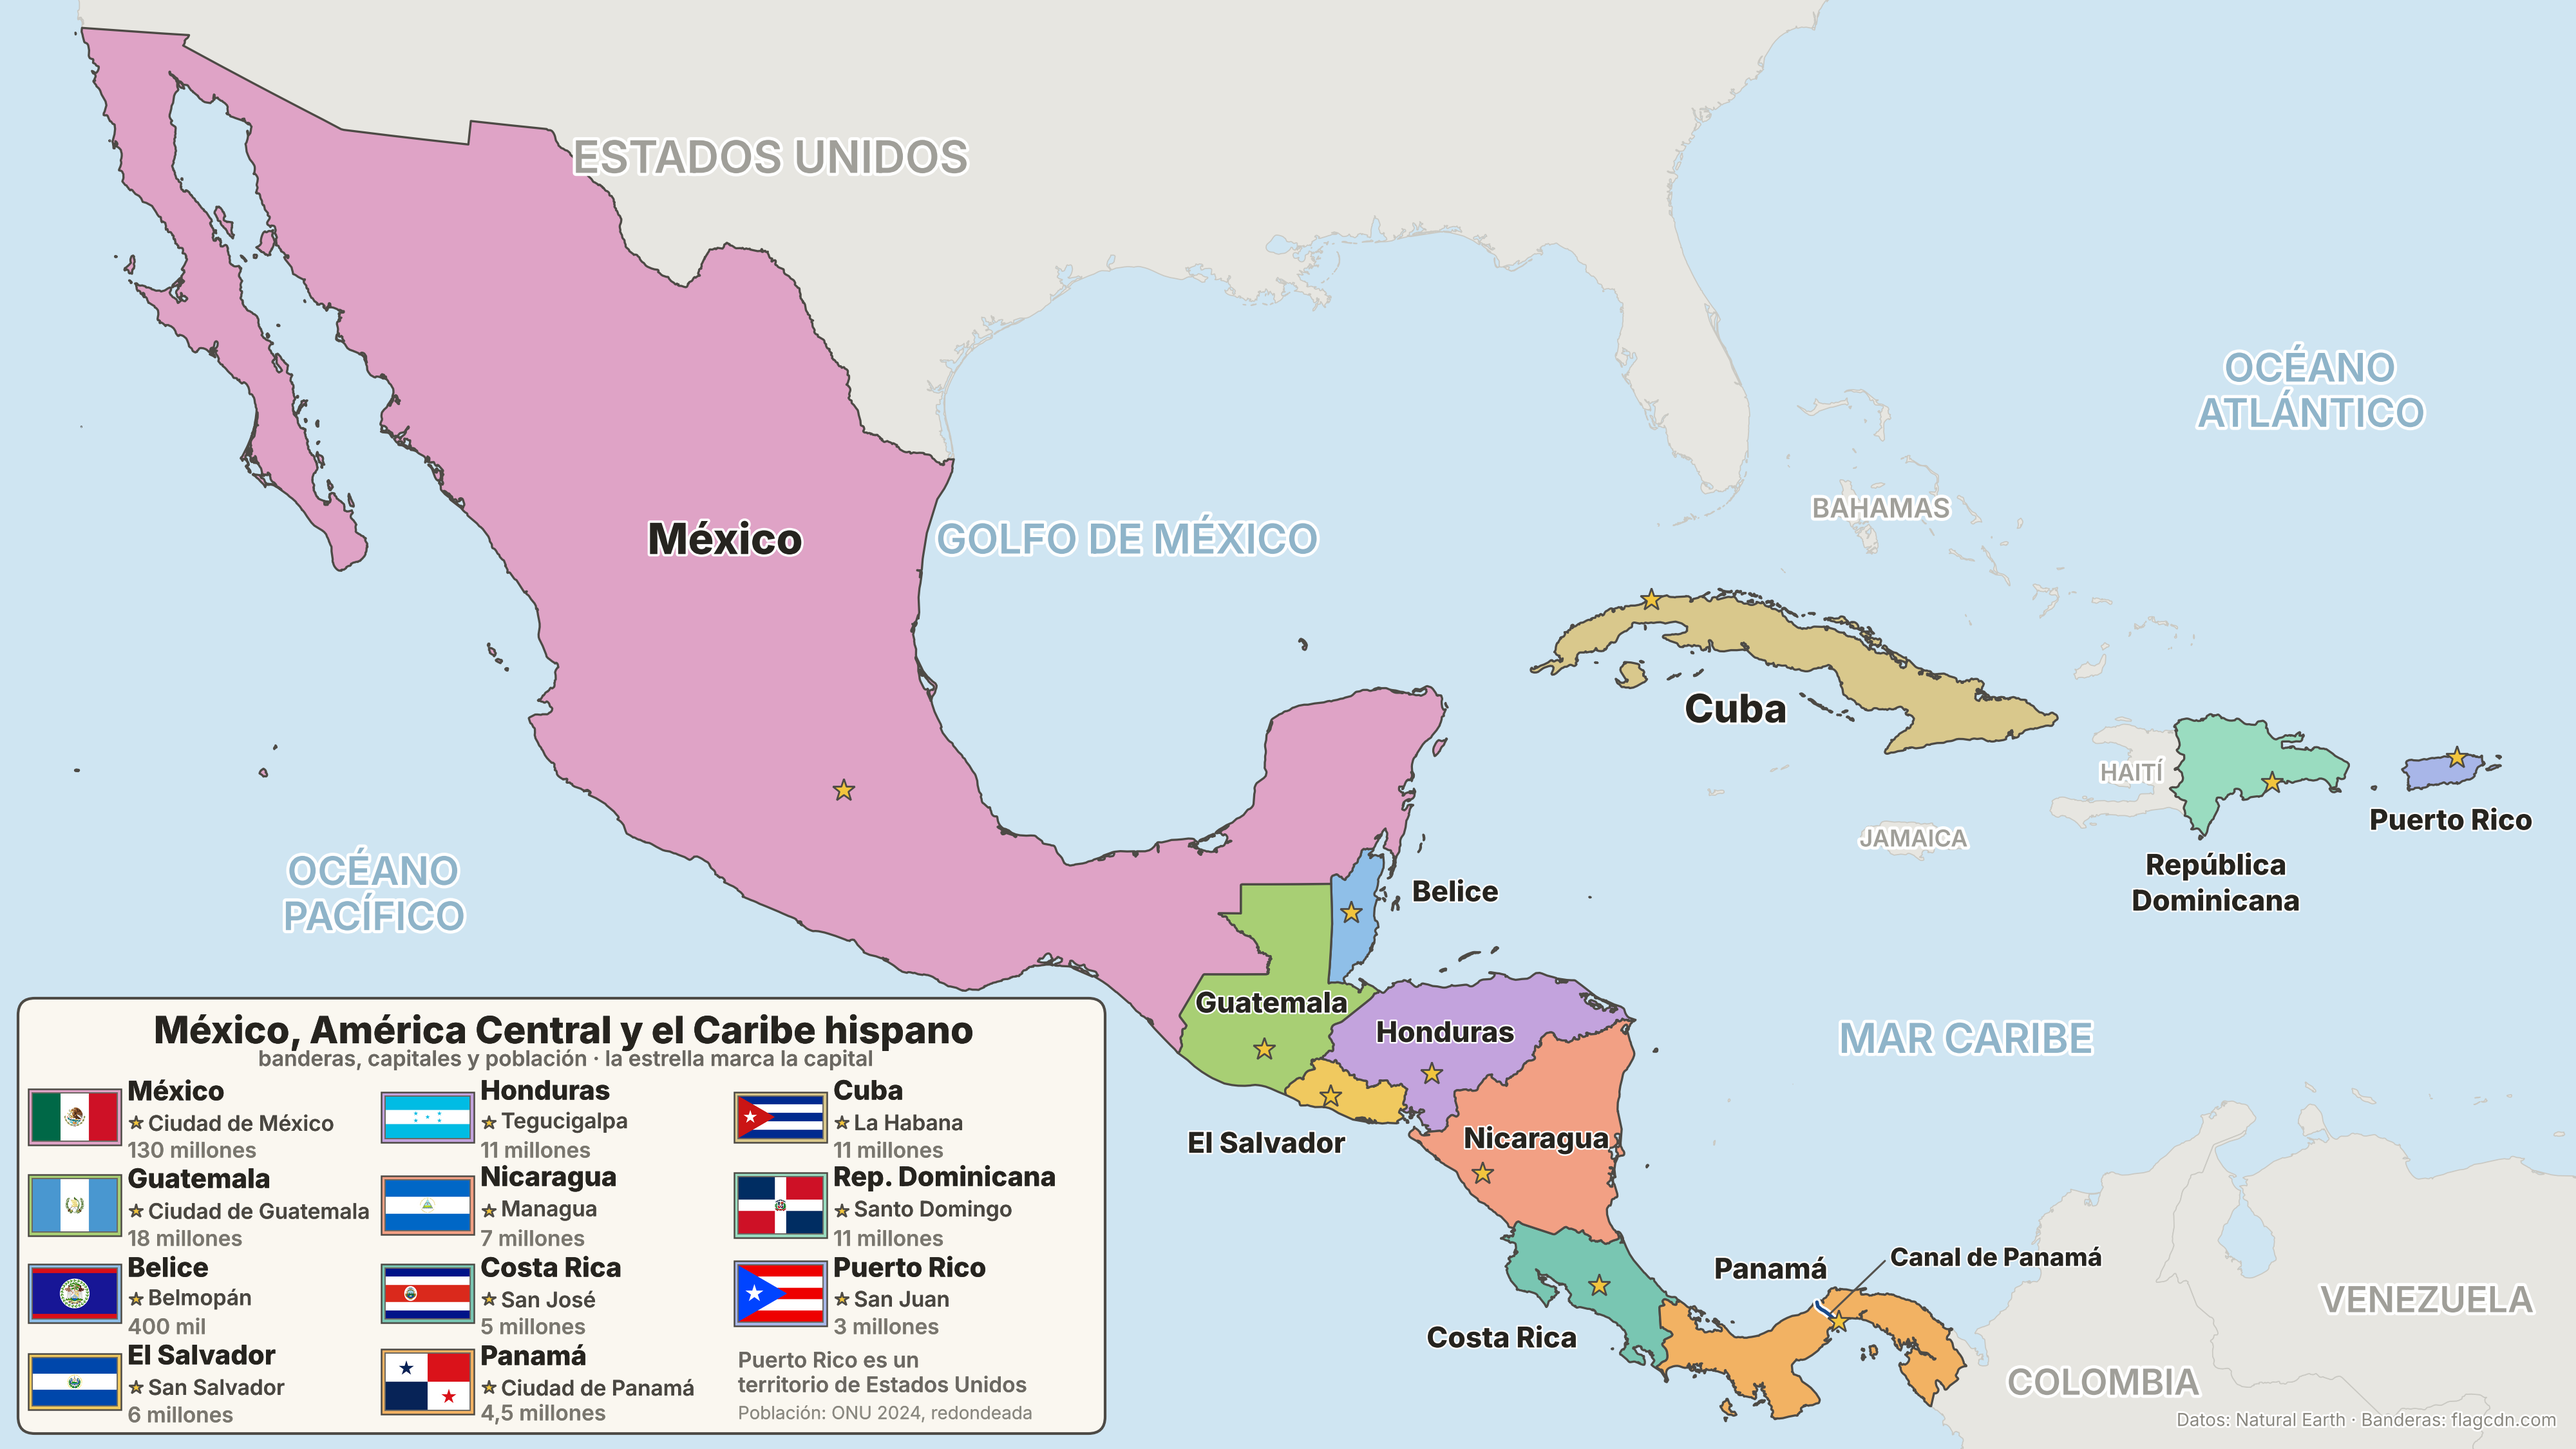
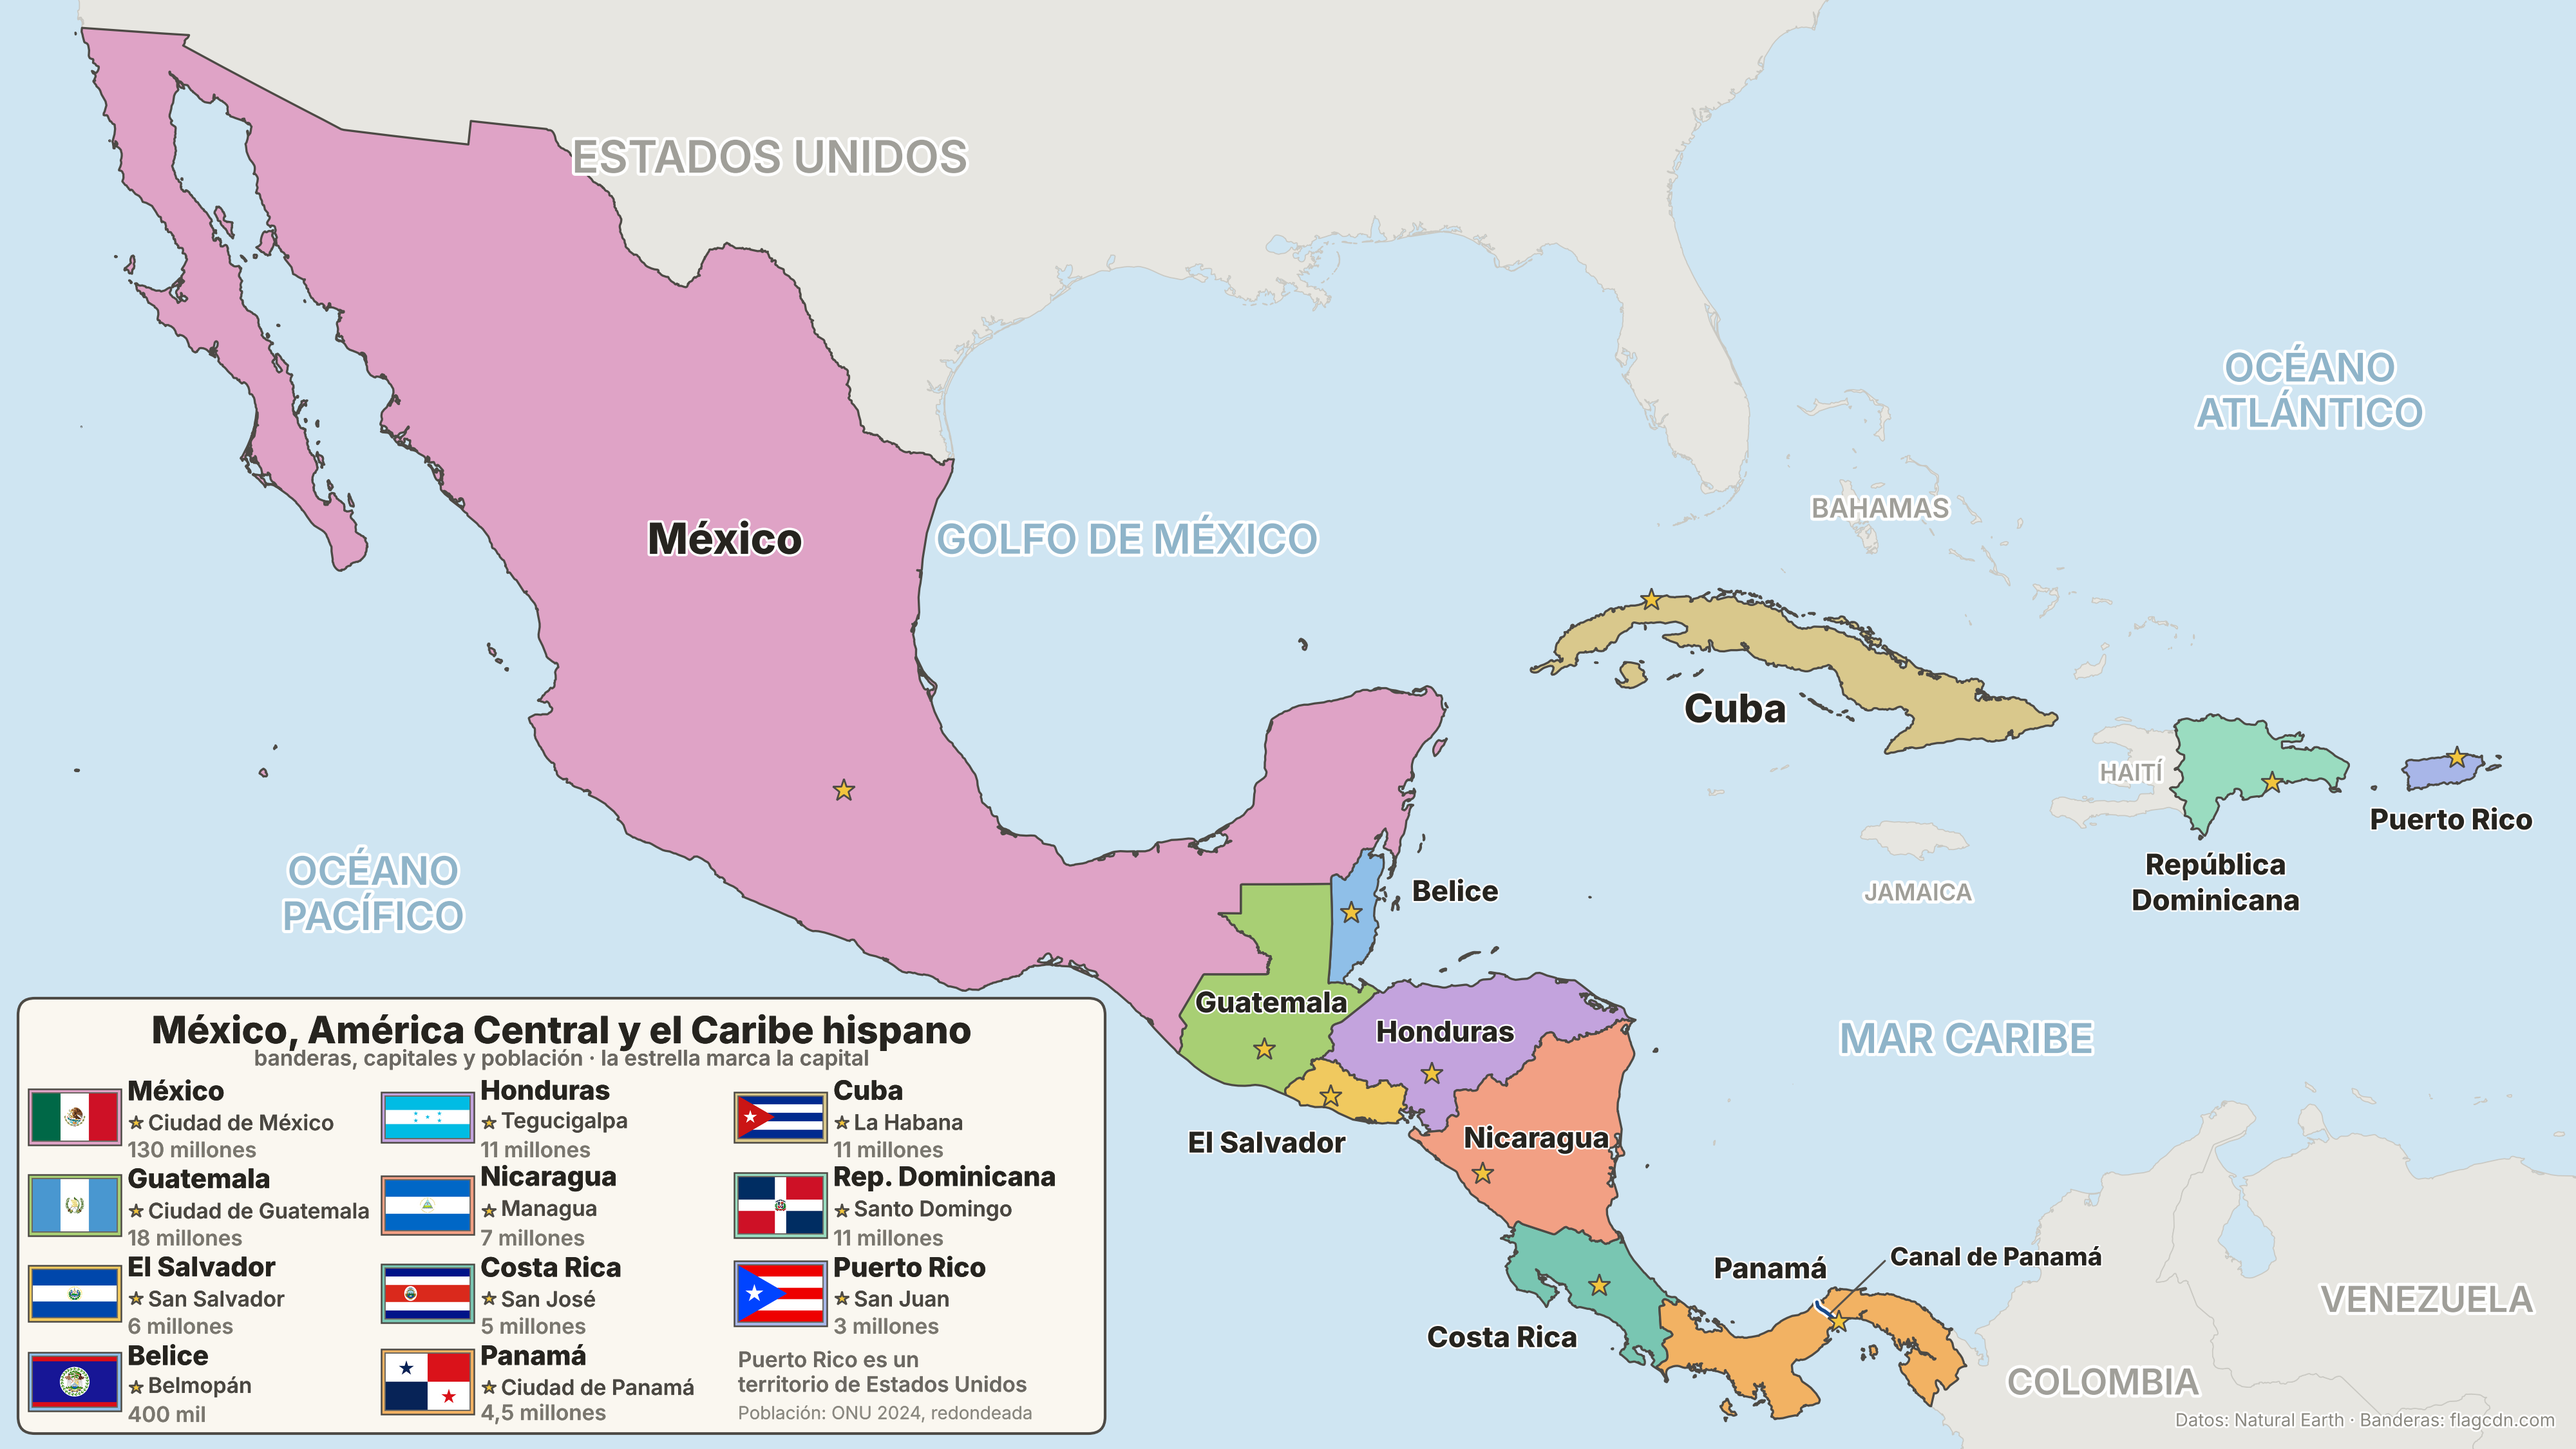
Add Miño, Nalón, Navia, Sella to rios-ciudades; reorder Belice/El Salvador and move Jamaica label on Mexico map
Claude-Session: https://claude.ai/code/session_017HntA7aw6av6jaruFWAru6

diff --git a/tvmaps/maps_rios.py b/tvmaps/maps_rios.py
@@ -11,6 +11,7 @@ Natural Earth mislabelings were corrected).
 from dataclasses import dataclass
 
 import geopandas as gpd
+import pandas as pd
 
 from . import cities, draw, geo, hooks
 from .maps_fisica import (COAST, HAND_RANGES, LAND, LAND_EDGE, RANGE_ALPHA,
@@ -189,6 +190,9 @@ def render_spain_rios():
 # pairing would look wrong and is left out.)
 # Label positions retuned so the names keep clear of the city dots.
 CIUDADES_RIVER_LABELS = {
+    "Nalón": RiverSpec(-5.45, 43.2, -35, 27),
+    "Navia": RiverSpec(-6.75, 43.25, 70, 27),
+    "Sella": RiverSpec(-4.82, 43.28, -78, 27),
     "Duero": RiverSpec(-4.05, 41.42, -6),
     "Pisuerga": RiverSpec(-4.48, 42.45, -80, 27, main=False),
     "Tormes": RiverSpec(-5.45, 40.55, -35, 27, main=False),
@@ -229,6 +233,13 @@ HAND_RIVERS = {
                    (1.9, 41.55), (1.93, 41.47), (2.03, 41.38), (2.11, 41.32),
                    (2.138, 41.298)],
                   RiverSpec(1.66, 41.68, -70, 27)),
+    # source Meira → Lugo → Portomarín → Ourense → Ribadavia → Tui → A Guarda
+    # (NE's Miño runs ~30 km west of Ourense, so it is traced by hand).
+    "Miño": ([(-7.30, 43.20), (-7.45, 43.10), (-7.55, 43.00), (-7.58, 42.90),
+              (-7.62, 42.81), (-7.70, 42.60), (-7.72, 42.45), (-7.864, 42.337),
+              (-8.14, 42.29), (-8.30, 42.18), (-8.52, 42.08), (-8.64, 42.05),
+              (-8.80, 41.97), (-8.87, 41.90)],
+             RiverSpec(-7.87, 42.75, -65, 26)),
     # Congost headwater → Granollers → Montcada → mouth NE of Barcelona, so
     # the city sits between its two rivers.
     "Besòs": ([(2.38, 41.77), (2.32, 41.68), (2.29, 41.61), (2.23, 41.52),
@@ -236,11 +247,15 @@ HAND_RIVERS = {
               RiverSpec(2.45, 41.62, -58, 25)),
 }
 
-# Cities missing from data/processed/cities.geojson (the two Portuguese
-# river mouths the user wants on the map), hardcoded lon/lat.
+# Cities missing from (or misplaced in) data/processed/cities.geojson: the
+# two Portuguese river mouths the user wants on the map, plus Ourense.
+# Hardcoded lon/lat.
 EXTRA_CITIES = {
     "Lisboa": (-9.1393, 38.7223),
     "Oporto": (-8.6291, 41.1579),
+    # The gazetteer geocoded Ourense ~35 km east of the city (-7.54, 42.19),
+    # well off the Miño it is on this map to illustrate; real centre here.
+    "Ourense": (-7.8641, 42.3358),
 }
 
 
@@ -292,6 +307,9 @@ def map_spain_rios_ciudades():
 
     riv = geo.load("rivers20").to_crs(geo.MAIN_CRS)
     riv = riv[riv["name"].isin(CIUDADES_RIVER_LABELS)]
+    # Navia and Sella are not in rivers20: take them from the OSM Asturias set.
+    ast = geo.load("asturias_rivers").to_crs(geo.MAIN_CRS)
+    riv = pd.concat([riv, ast[ast["name"].isin(("Navia", "Sella"))]])
     _draw_rivers(ax, riv, spain, CIUDADES_RIVER_LABELS)
     _label_rivers(ax, CIUDADES_RIVER_LABELS, table_id="CIUDADES_RIVER_LABELS")
 

diff --git a/tvmaps/maps_centroamerica.py b/tvmaps/maps_centroamerica.py
@@ -317,7 +317,7 @@ def render_centroamerica():
 
 # Column-major reading order: Mexico + the isthmus fill the first two columns,
 # the Antilles the third.
-EXT_ORDER = ["MX", "GT", "BZ", "SV", "HN", "NI", "CR", "PA", "CU", "DO", "PR"]
+EXT_ORDER = ["MX", "GT", "SV", "BZ", "HN", "NI", "CR", "PA", "CU", "DO", "PR"]
 
 # Mainland framing box (lon/lat): drops Isla del Coco and the Islas del Cisne.
 EXT_CORE_BOX = (-118.0, 6.9, -64.9, 33.0)
@@ -396,7 +396,7 @@ EXT_CONTEXT_LABELS = [
     ("ESTADOS UNIDOS", -101.5, 31.6, 50, 0),
     ("BAHAMAS", -77.4, 24.6, 30, 0),
     ("HAITÍ", -72.75, 19.05, 26, 0),
-    ("JAMAICA", -77.3, 18.15, 26, 0),
+    ("JAMAICA", -77.3, 17.1, 26, 0),
     ("COLOMBIA", -74.6, 7.4, 40, 0),
     ("VENEZUELA", -68.3, 8.2, 40, 0),
 ]
